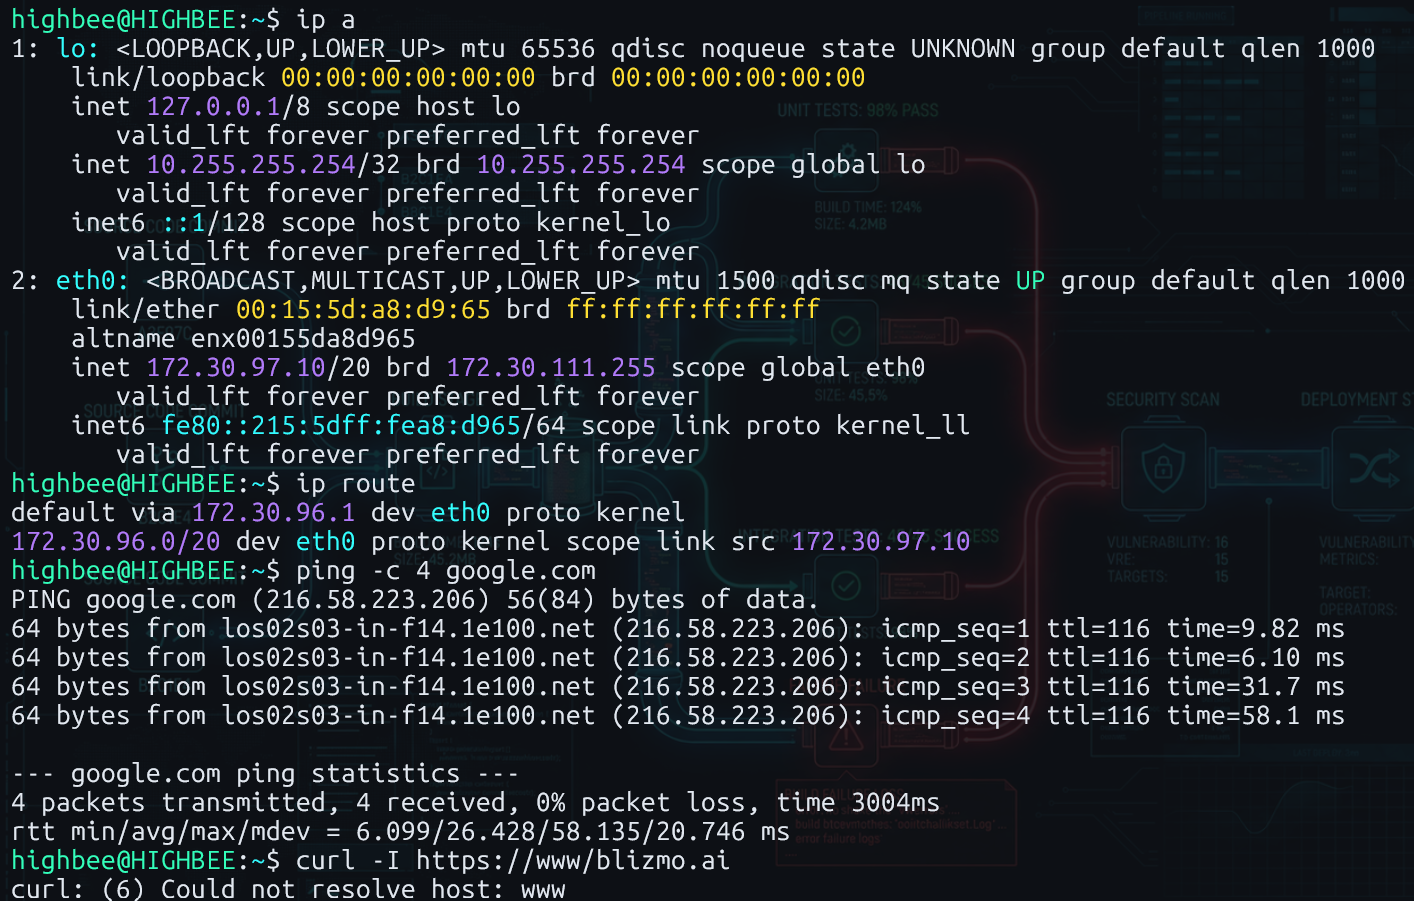
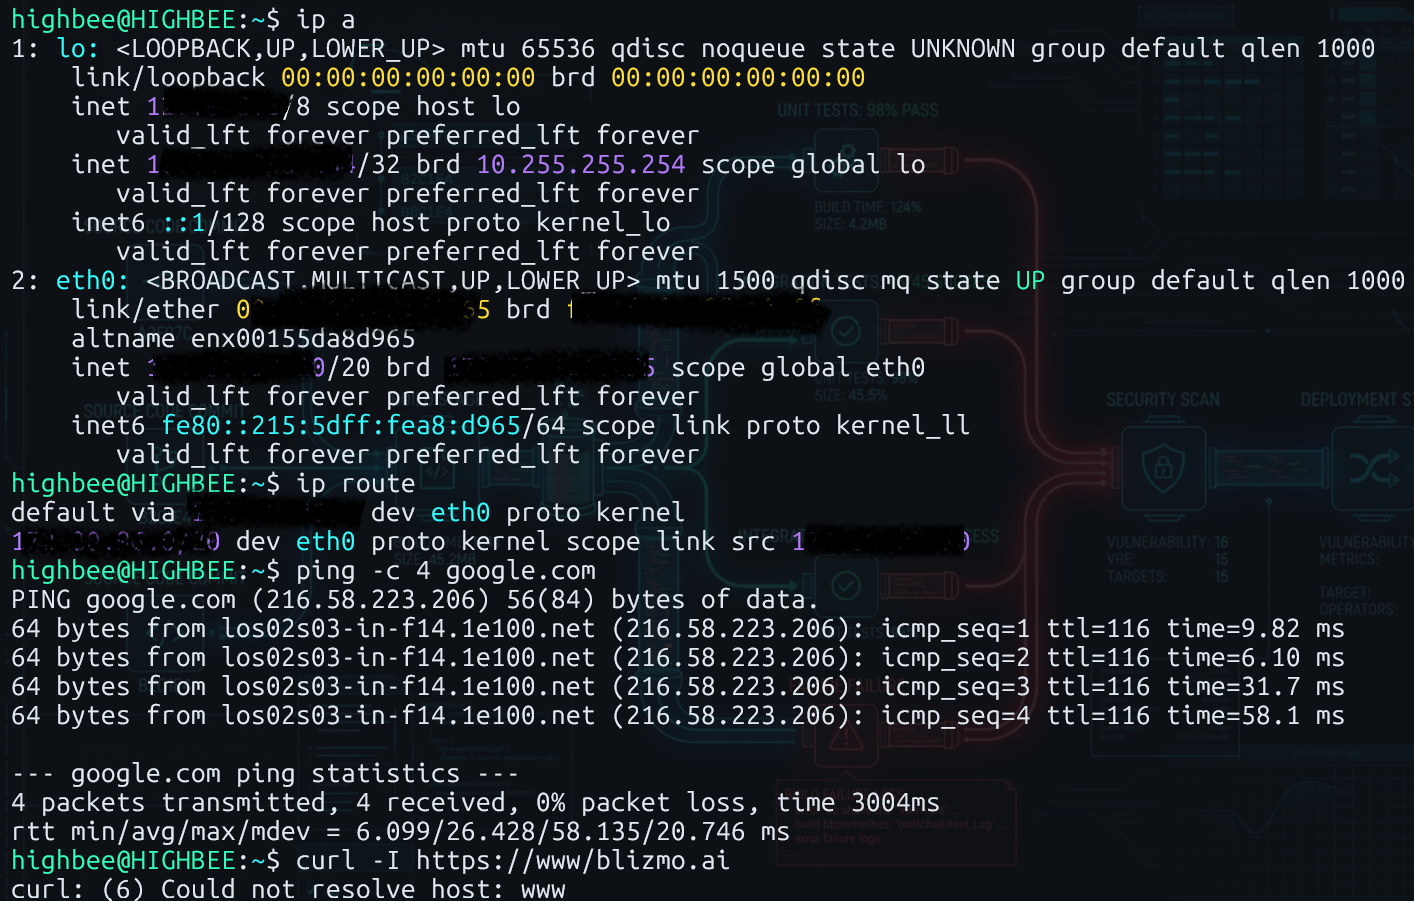
day 27 challenge done + readme table update

diff --git a/day-27-ssh-file-transfer/commands.md b/day-27-ssh-file-transfer/commands.md
@@ -1,0 +1,13 @@
+- ssh: This is a command that is used to establish a secure, encrypted terminal connection to a remote machine (e.g., ssh ubuntu@192.168.1.50).
+- ssh -p <port> <user>@<host>: This command will let you connect to a remote server using a custom network port instead of the standard default SSH port 22.
+- ssh -i <path_to_private_key> <user>@<host>:  This one explicitly specifies a private identity key file (e.g., ssh -i ~/.ssh/my_key.pem ubuntu@host) to authenticate your login session instead of typing a user password. 
+- ssh-keygen:  Launches an interactive prompt to generate a brand-new cryptographic keypair (a matching id_ed25519 private key and id_ed25519.pub public key) for passwordless authentication.
+- ssh-copy-id: Automatically connects to a remote server and appends your public key to its authorized registry file (~/.ssh/authorized_keys). Once run, you can log into that server instantly without ever typing a password again.
+- scp <source> <destination>: It stands for Secure Copy. It works like the standard cp command but safely encrypts and transfers files over a network between your local computer and a remote server (e.g., scp file.txt user@host:/var/www/). 
+- sftp <user>@<host>: It launches an interactive, secure file transfer console. It allows you to log into a remote machine and use standard navigation commands (ls, cd, pwd) combined with get (to download) and put (to upload) files. 
+- rsync: A highly optimized file sync utility. Unlike scp, which copies everything blindly, rsync analyzes files on both sides and only transfers the specific changes/deltas. If a transfer is interrupted, it can pick up exactly where it left off, making it ideal for large backups.
+- ~/.ssh/config: This is a local user file that allows you to create easy-to-remember shortcuts for your remote servers. Instead of typing ssh -i ~/.ssh/key.pem -p 2222 admin@192.168.10.45, you can configure an alias so you only have to type ssh myserver.
+- sshd_config hardening: Refers to editing the master server configuration file (/etc/ssh/sshd_config) to lock down a machine against hackers. Standard hardening steps include: 
+ 1. Changing the default port (Port 2222) to avoid automated scanning bots.
+ 2. Disabling root logins entirely (PermitRootLogin no).
+ 3. Completely disabling password authentication to force secure key usage (PasswordAuthentication no).

diff --git a/README.md b/README.md
@@ -32,8 +32,8 @@ commands across 6 phases, to build full command line fluency from file navigatio
 | 23 | Init Systems & systemctl Basics | Done | [day-23-systemctl-basics](https://github.com/brymo140/highbee-linux-mastery-challenge/tree/main/day-23-systemctl-basics) |
 | 24 | Deeper Service Management & Logs | Done | [day-24-service-logs](https://github.com/brymo140/highbee-linux-mastery-challenge/tree/main/day-24-service-logs) |
 | 25 | Process & Service Checkpoint | Done | [day-25-operational-snapshot-checkpoint](https://github.com/brymo140/highbee-linux-mastery-challenge/tree/main/day-25-operational-snapshot-checkpoint) |
-| 26 | Networking Basics | Done | [day-26-networking-basics](./day-26-networking-basics/) |
-| 27 | Remote Access & File Transfer | 🔲 Not started | [day-27-ssh-file-transfer](./day-27-ssh-file-transfer/) |
+| 26 | Networking Basics | Done | [day-26-networking-basics](https://github.com/brymo140/highbee-linux-mastery-challenge/tree/main/day-26-networking-basics) |
+| 27 | Remote Access & File Transfer | Done | [day-27-ssh-file-transfer](..day-27-) |
 | 28 | Bash Scripting Foundations | 🔲 Not started | [day-28-bash-scripting](./day-28-bash-scripting/) |
 | 29 | Functions, Arguments & Automation | 🔲 Not started | [day-29-functions-automation](./day-29-functions-automation/) |
 | 30 | Capstone: Full System Command Mastery Review | 🔲 Not started | [day-30-capstone](./day-30-capstone/) |

diff --git a/day-27-ssh-file-transfer/README.md b/day-27-ssh-file-transfer/README.md
@@ -1,0 +1,20 @@
+# Day 27: Remote Access & File Transfer
+
+## Phase 6 - NETWORKING, SCRIPTING & SSH MASTERY | Day 27 of 30
+
+## Commands covered today
+See commands.md for all 10 commands with syntax and my own explanation of what each one does and when I would reach for it.
+
+## What I practiced
+I practiced using the commands that represent the standard protocol for secure remote server administration and data transfer over the internet using SSH (Secure Shell). They allow you to securely log into remote machines, generate cryptographic keys, copy files efficiently, and lock down your server against unauthorized access.
+
+## What surprised me
+The priviledge of being able to send files accross remote servers. I have been curious of this since a long while i started this challenge and the question is now answerd with "scp" today.
+
+## Evidence
+Screenshot or terminal transcript of the drill in evidence/.
+
+## Related
+Previous day: [day-26-networking-basics](https://github.com/brymo140/highbee-linux-mastery-challenge/tree/main/day-26-networking-basics)
+
+Next day: [day-28-bash-scripting](../day-28-bash-scripting/)

diff --git a/journal/command-journal.md b/journal/command-journal.md
@@ -256,3 +256,13 @@
 - ss -tulnp — lists listening TCP/UDP ports and the processes using them (modern replacement for netstat)
 - hostname — displays the system's hostname
 - hostnamectl — displays detailed system identity info including hostname, OS, and kernel version
+- ssh — connects to a remote (or local) machine over a secure shell session
+- ssh -p — specifies a non-default port to connect through
+- ssh -i — specifies a particular private key file to authenticate with
+- ssh-keygen — generates a new public/private SSH key pair
+- ssh-copy-id — copies your public key to a remote host's authorized_keys file
+- scp — securely copies files between machines over SSH
+- sftp — opens an interactive secure file transfer session
+- rsync — synchronizes files between machines, only transferring what has changed
+- ~/.ssh/config — a config file that stores shortcuts and settings for specific SSH hosts
+- sshd_config hardening — refers to security settings in the SSH server config, like disabling root login or password auth

diff --git a/day-27-ssh-file-transfer/drill.md b/day-27-ssh-file-transfer/drill.md
@@ -1,0 +1,13 @@
+# Day 27 Practice Drill
+
+## Task
+Generate an SSH key pair, copy the public key to a remote host, connect without a password, then securely copy a file to and from that server.
+
+## Commands I ran
+-  sudo systemctl enable --now ssh
+-  ssh-keygen
+- ssh-copy-id newhire@HIGHBEE
+- ssh newhire@HIGHBEE
+- echo "test file for scp" > transfertest.txt
+- scp transfertest.txt newhire@HIGHBEE:~/received.tx
+-  scp transfertest.txt highbee@HIGHBEE:~/sendbackto-theboss.tsx

diff --git a/day-25-operational-snapshot-checkpoint/README.md b/day-25-operational-snapshot-checkpoint/README.md
@@ -17,4 +17,4 @@ Screenshot or terminal transcript of the drill in evidence/.
 ## Related
 Previous day: [day-24-service-logs](https://github.com/brymo140/highbee-linux-mastery-challenge/tree/main/day-24-service-logs)
 
-Next day: [day-26-networking-basics](../day-26-networking-basics/)
+Next day: [day-26-networking-basics](https://github.com/brymo140/highbee-linux-mastery-challenge/tree/main/day-26-networking-basics)
